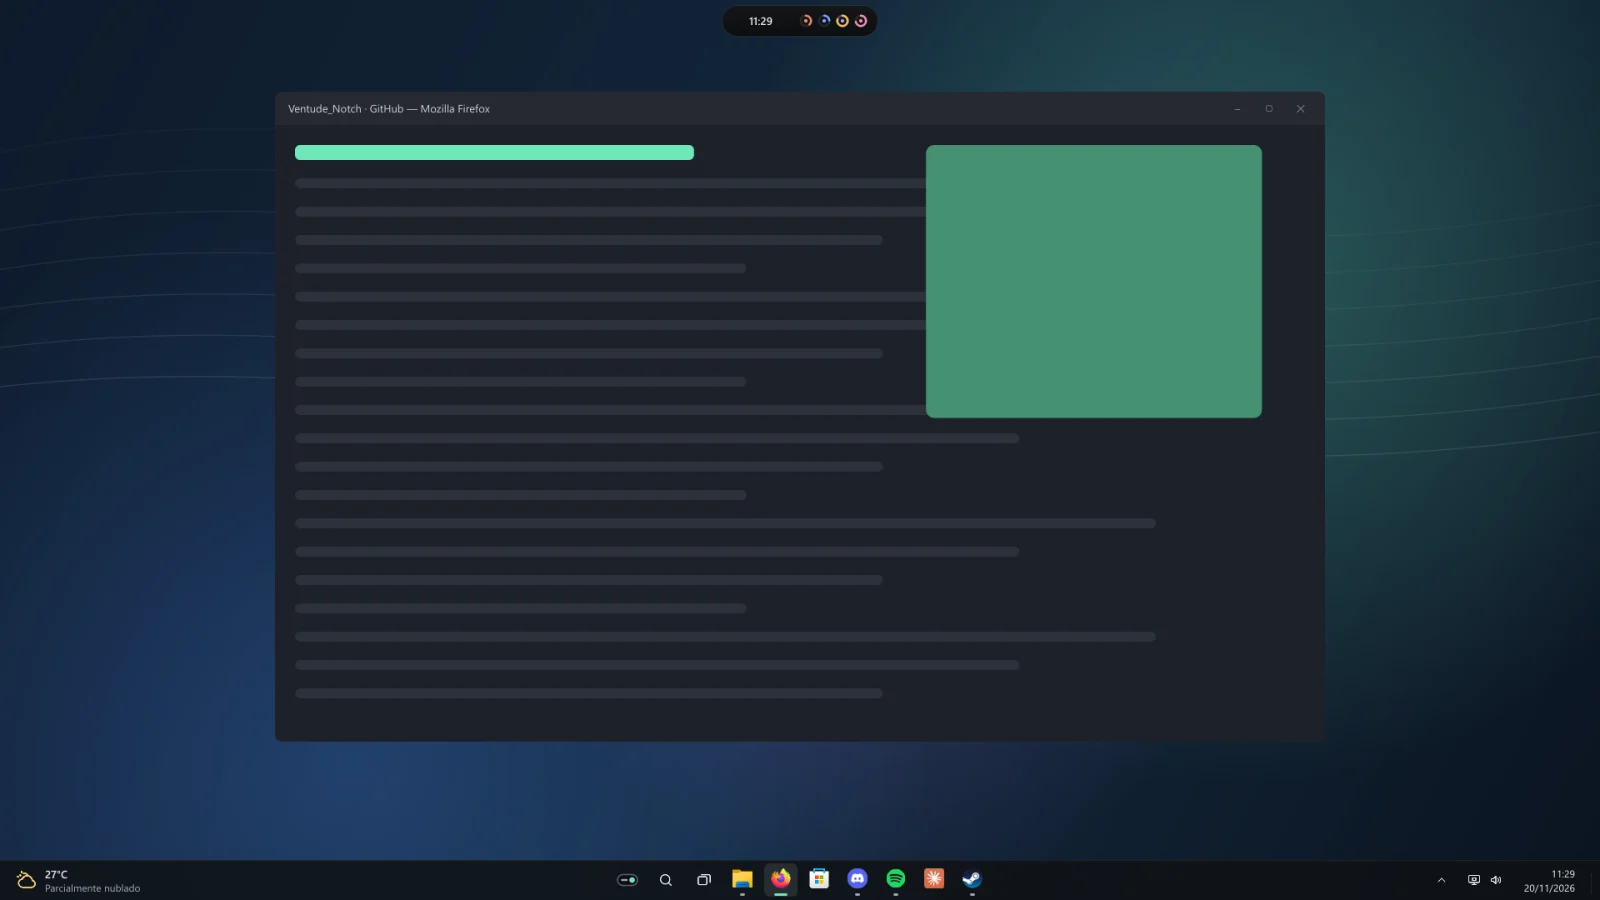
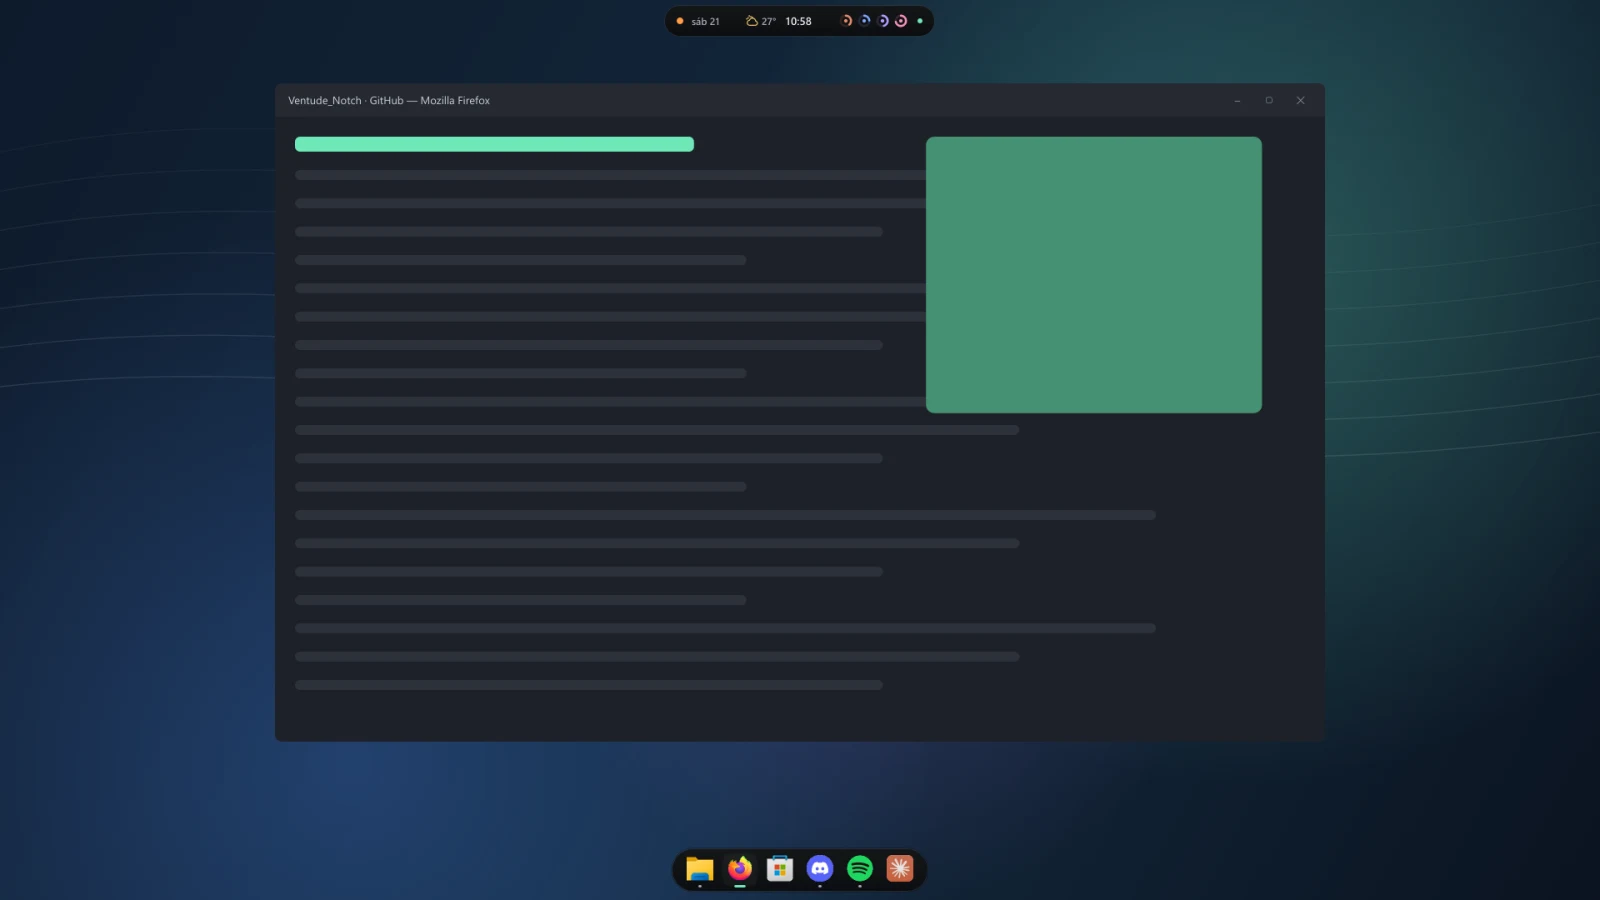
Atualizar as capturas do app e adicionar a licença MIT
As imagens de docs/screens eram de versões anteriores da interface. Foram
regeneradas com o scripts/preview.py (dados de demonstração) e convertidas
para WebP: Lançador, Doca, prévias, Controles, Interruptor de energia e as
abas da ilha. As que não existem mais foram removidas e o README passou a
usar as novas, incluindo Sistema, Áudio, Estante e barra de comandos.

O preview também mostra o Grok com o limite semanal, no lugar das cotas
por modelo.

Adiciona a licença MIT (LICENSE, pyproject e seção no README).

diff --git a/scripts/preview.py b/scripts/preview.py
@@ -92,10 +92,11 @@ def demo_fetchers() -> dict:
             "grok",
             "ok",
             [
-                Window("mode:grok-4-auto", "Auto", 46, None, "27 de 50 restantes · janela de 2h"),
-                Window("mode:grok-4", "Expert", 80, now + 41 * 60, "4 de 20 restantes · janela de 2h"),
+                Window(
+                    "credits", "Limite semanal", 46, now + 5 * 86400 + 3 * H, "Grok Bot 46%", period=7 * 86400
+                ),
             ],
-            plan="SuperGrok",
+            plan="Premium",
             source="grok.com",
         ),
         "codex": lambda ctx: Report(

diff --git a/README.md b/README.md
@@ -11,6 +11,7 @@ e uma nova barra de tarefas, Menu Iniciar e Pesquisa embaixo.
 [![Downloads](https://img.shields.io/github/downloads/3Gb3/Ventude_Notch/total?label=downloads&color=2ea44f)](https://github.com/3Gb3/Ventude_Notch/releases)
 ![Windows 10 | 11](https://img.shields.io/badge/Windows-10%20%7C%2011-0078d4?logo=windows)
 ![Python 3.12+](https://img.shields.io/badge/Python-3.12%2B-3776ab?logo=python&logoColor=white)
+[![Licença MIT](https://img.shields.io/badge/licen%C3%A7a-MIT-informational)](LICENSE)
 
 ### [⬇ Baixar o Ventude para Windows](https://github.com/3Gb3/Ventude_Notch/releases/latest/download/Ventude-Setup.exe)
 
@@ -18,7 +19,7 @@ e uma nova barra de tarefas, Menu Iniciar e Pesquisa embaixo.
 
 <br>
 
-<img src="docs/screens/shell-iniciar.webp" alt="Ventude Shell: Menu Iniciar com fixados, recentes e a Doca" width="100%">
+<img src="docs/screens/shell-iniciar.webp" alt="Ventude Shell: Lançador com fixados e recentes, a ilha no topo e a Doca embaixo" width="100%">
 
 </div>
 
@@ -50,13 +51,16 @@ Quem usa várias IAs no dia a dia vive abrindo abas só para descobrir quanto ai
 ## A ilha
 
 <p align="center">
-  <img src="docs/screens/ilha.png" alt="Ilha fechada com data, clima, hora e anéis de uso das IAs" height="60">
-  <img src="docs/screens/ilha-musica.png" alt="Ilha fechada tocando música" height="60">
-  <img src="docs/screens/ilha-timer.png" alt="Ilha com música, estante, Pomodoro, clima e anéis" height="60">
+  <img src="docs/screens/ilha.webp" alt="Ilha fechada com data, clima, hora e anéis de uso das IAs" height="60">
+  <img src="docs/screens/ilha-musica.webp" alt="Ilha fechada tocando música" height="60">
 </p>
 <p align="center">
-  <img src="docs/screens/inicio.png" alt="Painel Início" width="49%">
-  <img src="docs/screens/ias.png" alt="Limites das IAs" width="49%">
+  <img src="docs/screens/ilha-timer.webp" alt="Ilha com música, Pomodoro, estante, clima e anéis" height="60">
+  <img src="docs/screens/aviso-na-ilha.webp" alt="Aviso de limite na própria ilha" height="60">
+</p>
+<p align="center">
+  <img src="docs/screens/inicio.webp" alt="Painel Início" width="49%">
+  <img src="docs/screens/ias.webp" alt="Limites das IAs" width="49%">
 </p>
 
 Fechada, a ilha é uma pílula com hora, clima, música e um anel por IA. Aberta, vira um painel com abas:
@@ -75,9 +79,18 @@ Fechada, a ilha é uma pílula com hora, clima, música e um anel por IA. Aberta
 | **Ajustes** | Tudo salvo na hora. Abas desligadas somem e param de rodar. |
 
 <p align="center">
-  <img src="docs/screens/agenda.png" alt="Agenda" width="32%">
-  <img src="docs/screens/clima.png" alt="Clima" width="32%">
-  <img src="docs/screens/mercado.png" alt="Mercado" width="32%">
+  <img src="docs/screens/sistema.webp" alt="Sistema: CPU, GPU, RAM, rede, disco e bateria ao vivo" width="49%">
+  <img src="docs/screens/audio.webp" alt="Áudio: saídas, microfone e mixer por aplicativo" width="49%">
+</p>
+<p align="center">
+  <img src="docs/screens/agenda.webp" alt="Agenda" width="32%">
+  <img src="docs/screens/clima.webp" alt="Clima" width="32%">
+  <img src="docs/screens/mercado.webp" alt="Mercado" width="32%">
+</p>
+<p align="center">
+  <img src="docs/screens/estante.webp" alt="Estante temporária" width="32%">
+  <img src="docs/screens/comandos.webp" alt="Barra de comandos criando uma tarefa" width="32%">
+  <img src="docs/screens/clima-dia.webp" alt="Detalhes do clima de um dia, hora a hora" width="32%">
 </p>
 
 <details>
@@ -99,12 +112,19 @@ Fechada, a ilha é uma pílula com hora, clima, música e um anel por IA. Aberta
 ## Ventude Shell
 
 <p align="center">
-  <img src="docs/screens/shell-pesquisa.webp" alt="Pesquisa (tecla Windows) com as pesquisas recentes" width="49%">
-  <img src="docs/screens/shell-pesquisa-resultados.webp" alt="Resultados da Pesquisa com o painel de ações" width="49%">
+  <img src="docs/screens/shell-doca.webp" alt="Doca flutuante com fixados e apps abertos" width="70%">
 </p>
 <p align="center">
-  <img src="docs/screens/shell-painel-rapido.webp" alt="Painel rápido: rede, cafeína, microfone, ferramentas e volume" width="49%">
-  <img src="docs/screens/shell-ate-logo.webp" alt="Animação de desligar: Até logo!" width="49%">
+  <img src="docs/screens/shell-pesquisa.webp" alt="Lançador: pesquisa com a melhor correspondência e ações" width="49%">
+  <img src="docs/screens/shell-projeto-git.webp" alt="Lançador: projeto Git com Terminal, Editor e Agente aqui" width="49%">
+</p>
+<p align="center">
+  <img src="docs/screens/shell-iniciar-todos.webp" alt="Todos os apps por categoria com trilho A–Z" width="49%">
+  <img src="docs/screens/shell-previas.webp" alt="Prévias ao vivo das janelas acima da Doca" width="49%">
+</p>
+<p align="center">
+  <img src="docs/screens/controles.webp" alt="Controles na ilha: som, rede, Cafeína, Foco, Silêncio e apps em segundo plano" width="32%">
+  <img src="docs/screens/shell-ate-logo.webp" alt="Interruptor de energia: Até logo!" width="66%">
 </p>
 
 | Parte | O que faz |
@@ -186,6 +206,10 @@ Toda alteração na `main` gera uma versão nova automaticamente pelo GitHub Act
 Encontrou um bug ou tem uma ideia? [Abra uma issue](https://github.com/3Gb3/Ventude_Notch/issues). Pull requests são bem-vindos.
 
 Se o Ventude te ajudou, deixe uma ⭐ no repositório e compartilhe com quem também vive de olho nos limites das IAs.
+
+## Licença
+
+Distribuído sob a [licença MIT](LICENSE): use, modifique e redistribua à vontade, mantendo o aviso de copyright.
 
 <div align="center">
 <sub>Feito no Brasil 🇧🇷 para o Windows.</sub>
